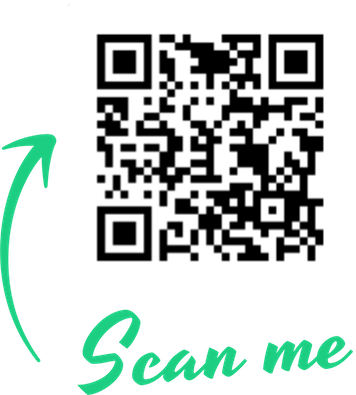
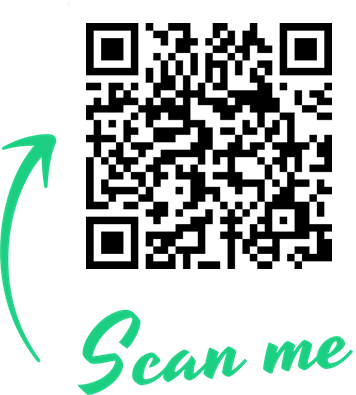
update product links and qrCode.

Changed region(s): [[0.2163, 0.0608, 0.9579, 0.6987]]

diff --git a/products/bananas/index.html b/products/bananas/index.html
@@ -7,7 +7,7 @@
   <meta name="viewport" content="width=device-width, initial-scale=1">
   <meta name="description" content="A banana is an elongated, tasty fruit – botanically a berry – produced by several kinds of large herbaceous flowering plants.">
   <meta name="author" content="AppsFlyer">
-  <meta name="generator" content="Gotham 0.10.0-dev" />
+  <meta name="generator" content="Gotham 0.13.0" />
 
   <!-- Plugins -->
   
@@ -26,7 +26,7 @@
   <link rel="shortcut icon" href="https://chayev.github.io/appsflyer-smartbanner-fruits/images/favicon.png " type="image/x-icon">
   <link rel="icon" href="https://chayev.github.io/appsflyer-smartbanner-fruits/images/favicon.png " type="image/x-icon">
   <script>
-    !function(t,e,n,s,a,c,i,o,p){t.AppsFlyerSdkObject=a,t.AF=t.AF||function(){(t.AF.q=t.AF.q||[]).push([Date.now()].concat(Array.prototype.slice.call(arguments)))},t.AF.id=t.AF.id||i,t.AF.plugins={},o=e.createElement(n),p=e.getElementsByTagName(n)[0],o.async=1,o.src="https://websdk.appsflyer.com?"+(c.length>0?"st="+c.split(",").sort().join(",")+"&":"")+(i.length>0?"af_id="+i:""),p.parentNode.insertBefore(o,p)}(window,document,"script",0,"AF","banners",{banners: {key: "d12425a4-aae5-4704-ba56-f7caad37172a"}})
+    !function(t,e,n,s,a,c,i,o,p){t.AppsFlyerSdkObject=a,t.AF=t.AF||function(){(t.AF.q=t.AF.q||[]).push([Date.now()].concat(Array.prototype.slice.call(arguments)))},t.AF.id=t.AF.id||i,t.AF.plugins={},o=e.createElement(n),p=e.getElementsByTagName(n)[0],o.async=1,o.src="https://websdk.appsflyer.com?"+(c.length>0?"st="+c.split(",").sort().join(",")+"&":"")+(i.length>0?"af_id="+i:""),p.parentNode.insertBefore(o,p)}(window,document,"script",0,"AF","banners",{banners: {key: "badb4d36-a89b-4ca9-a2bd-b489cf8972e5"}})
     AF('banners', 'showBanner')
   </script>
   <script>
@@ -93,7 +93,7 @@
       <div class="col-lg-5 mb-4 mb-lg-0">
         
           <button class="btn btn-primary btn-block"
-            onclick="location.href='https:\/\/appsflyer.onelink.me\/pGHC?pid=HalseyDemo\u0026c=bananas\u0026af_sub1=bananas'" type="button">
+            onclick="location.href='https:\/\/onelink-basic-app.onelink.me\/H5hv\/3fc2409f'" type="button">
             View in App
           </button>
         

diff --git a/products/peaches/index.html b/products/peaches/index.html
@@ -7,7 +7,7 @@
   <meta name="viewport" content="width=device-width, initial-scale=1">
   <meta name="description" content="A peach is a soft, juicy and fleshy stone fruit produced by a peach tree. It is grown throughout the warmer temperate regions.">
   <meta name="author" content="AppsFlyer">
-  <meta name="generator" content="Gotham 0.10.0-dev" />
+  <meta name="generator" content="Gotham 0.13.0" />
 
   <!-- Plugins -->
   
@@ -26,7 +26,7 @@
   <link rel="shortcut icon" href="https://chayev.github.io/appsflyer-smartbanner-fruits/images/favicon.png " type="image/x-icon">
   <link rel="icon" href="https://chayev.github.io/appsflyer-smartbanner-fruits/images/favicon.png " type="image/x-icon">
   <script>
-    !function(t,e,n,s,a,c,i,o,p){t.AppsFlyerSdkObject=a,t.AF=t.AF||function(){(t.AF.q=t.AF.q||[]).push([Date.now()].concat(Array.prototype.slice.call(arguments)))},t.AF.id=t.AF.id||i,t.AF.plugins={},o=e.createElement(n),p=e.getElementsByTagName(n)[0],o.async=1,o.src="https://websdk.appsflyer.com?"+(c.length>0?"st="+c.split(",").sort().join(",")+"&":"")+(i.length>0?"af_id="+i:""),p.parentNode.insertBefore(o,p)}(window,document,"script",0,"AF","banners",{banners: {key: "d12425a4-aae5-4704-ba56-f7caad37172a"}})
+    !function(t,e,n,s,a,c,i,o,p){t.AppsFlyerSdkObject=a,t.AF=t.AF||function(){(t.AF.q=t.AF.q||[]).push([Date.now()].concat(Array.prototype.slice.call(arguments)))},t.AF.id=t.AF.id||i,t.AF.plugins={},o=e.createElement(n),p=e.getElementsByTagName(n)[0],o.async=1,o.src="https://websdk.appsflyer.com?"+(c.length>0?"st="+c.split(",").sort().join(",")+"&":"")+(i.length>0?"af_id="+i:""),p.parentNode.insertBefore(o,p)}(window,document,"script",0,"AF","banners",{banners: {key: "badb4d36-a89b-4ca9-a2bd-b489cf8972e5"}})
     AF('banners', 'showBanner')
   </script>
   <script>
@@ -93,7 +93,7 @@
       <div class="col-lg-5 mb-4 mb-lg-0">
         
           <button class="btn btn-primary btn-block"
-            onclick="location.href='https:\/\/appsflyer.onelink.me\/pGHC?pid=HalseyDemo\u0026c=peaches\u0026af_sub1=peaches'" type="button">
+            onclick="location.href='https:\/\/onelink-basic-app.onelink.me\/H5hv\/3c1f0e30'" type="button">
             View in App
           </button>
         

diff --git a/products/apples/index.html b/products/apples/index.html
@@ -7,7 +7,7 @@
   <meta name="viewport" content="width=device-width, initial-scale=1">
   <meta name="description" content="The apple is a pome (fleshy) fruit, in which the ripened ovary and surrounding tissue both become fleshy and edible.">
   <meta name="author" content="AppsFlyer">
-  <meta name="generator" content="Gotham 0.10.0-dev" />
+  <meta name="generator" content="Gotham 0.13.0" />
 
   <!-- Plugins -->
   
@@ -26,7 +26,7 @@
   <link rel="shortcut icon" href="https://chayev.github.io/appsflyer-smartbanner-fruits/images/favicon.png " type="image/x-icon">
   <link rel="icon" href="https://chayev.github.io/appsflyer-smartbanner-fruits/images/favicon.png " type="image/x-icon">
   <script>
-    !function(t,e,n,s,a,c,i,o,p){t.AppsFlyerSdkObject=a,t.AF=t.AF||function(){(t.AF.q=t.AF.q||[]).push([Date.now()].concat(Array.prototype.slice.call(arguments)))},t.AF.id=t.AF.id||i,t.AF.plugins={},o=e.createElement(n),p=e.getElementsByTagName(n)[0],o.async=1,o.src="https://websdk.appsflyer.com?"+(c.length>0?"st="+c.split(",").sort().join(",")+"&":"")+(i.length>0?"af_id="+i:""),p.parentNode.insertBefore(o,p)}(window,document,"script",0,"AF","banners",{banners: {key: "d12425a4-aae5-4704-ba56-f7caad37172a"}})
+    !function(t,e,n,s,a,c,i,o,p){t.AppsFlyerSdkObject=a,t.AF=t.AF||function(){(t.AF.q=t.AF.q||[]).push([Date.now()].concat(Array.prototype.slice.call(arguments)))},t.AF.id=t.AF.id||i,t.AF.plugins={},o=e.createElement(n),p=e.getElementsByTagName(n)[0],o.async=1,o.src="https://websdk.appsflyer.com?"+(c.length>0?"st="+c.split(",").sort().join(",")+"&":"")+(i.length>0?"af_id="+i:""),p.parentNode.insertBefore(o,p)}(window,document,"script",0,"AF","banners",{banners: {key: "badb4d36-a89b-4ca9-a2bd-b489cf8972e5"}})
     AF('banners', 'showBanner')
   </script>
   <script>
@@ -93,7 +93,7 @@
       <div class="col-lg-5 mb-4 mb-lg-0">
         
           <button class="btn btn-primary btn-block"
-            onclick="location.href='https:\/\/appsflyer.onelink.me\/pGHC?pid=HalseyDemo\u0026c=apples\u0026af_sub1=apples'" type="button">
+            onclick="location.href='https:\/\/onelink-basic-app.onelink.me\/H5hv\/2358e13f'" type="button">
             View in App
           </button>
         

diff --git a/categories/index.html b/categories/index.html
@@ -7,7 +7,7 @@
   <meta name="viewport" content="width=device-width, initial-scale=1">
   <meta name="description" content="This is a demo page for AppsFlyer offerings.">
   <meta name="author" content="AppsFlyer">
-  <meta name="generator" content="Gotham 0.10.0-dev" />
+  <meta name="generator" content="Gotham 0.13.0" />
 
   <!-- Plugins -->
   
@@ -26,7 +26,7 @@
   <link rel="shortcut icon" href="https://chayev.github.io/appsflyer-smartbanner-fruits/images/favicon.png " type="image/x-icon">
   <link rel="icon" href="https://chayev.github.io/appsflyer-smartbanner-fruits/images/favicon.png " type="image/x-icon">
   <script>
-    !function(t,e,n,s,a,c,i,o,p){t.AppsFlyerSdkObject=a,t.AF=t.AF||function(){(t.AF.q=t.AF.q||[]).push([Date.now()].concat(Array.prototype.slice.call(arguments)))},t.AF.id=t.AF.id||i,t.AF.plugins={},o=e.createElement(n),p=e.getElementsByTagName(n)[0],o.async=1,o.src="https://websdk.appsflyer.com?"+(c.length>0?"st="+c.split(",").sort().join(",")+"&":"")+(i.length>0?"af_id="+i:""),p.parentNode.insertBefore(o,p)}(window,document,"script",0,"AF","banners",{banners: {key: "d12425a4-aae5-4704-ba56-f7caad37172a"}})
+    !function(t,e,n,s,a,c,i,o,p){t.AppsFlyerSdkObject=a,t.AF=t.AF||function(){(t.AF.q=t.AF.q||[]).push([Date.now()].concat(Array.prototype.slice.call(arguments)))},t.AF.id=t.AF.id||i,t.AF.plugins={},o=e.createElement(n),p=e.getElementsByTagName(n)[0],o.async=1,o.src="https://websdk.appsflyer.com?"+(c.length>0?"st="+c.split(",").sort().join(",")+"&":"")+(i.length>0?"af_id="+i:""),p.parentNode.insertBefore(o,p)}(window,document,"script",0,"AF","banners",{banners: {key: "badb4d36-a89b-4ca9-a2bd-b489cf8972e5"}})
     AF('banners', 'showBanner')
   </script>
   <script>

diff --git a/index.html b/index.html
@@ -7,7 +7,7 @@
   <meta name="viewport" content="width=device-width, initial-scale=1">
   <meta name="description" content="This is a demo page for AppsFlyer offerings.">
   <meta name="author" content="AppsFlyer">
-  <meta name="generator" content="Gotham 0.10.0-dev" />
+  <meta name="generator" content="Gotham 0.13.0" />
 
   <!-- Plugins -->
   
@@ -26,7 +26,7 @@
   <link rel="shortcut icon" href="https://chayev.github.io/appsflyer-smartbanner-fruits/images/favicon.png " type="image/x-icon">
   <link rel="icon" href="https://chayev.github.io/appsflyer-smartbanner-fruits/images/favicon.png " type="image/x-icon">
   <script>
-    !function(t,e,n,s,a,c,i,o,p){t.AppsFlyerSdkObject=a,t.AF=t.AF||function(){(t.AF.q=t.AF.q||[]).push([Date.now()].concat(Array.prototype.slice.call(arguments)))},t.AF.id=t.AF.id||i,t.AF.plugins={},o=e.createElement(n),p=e.getElementsByTagName(n)[0],o.async=1,o.src="https://websdk.appsflyer.com?"+(c.length>0?"st="+c.split(",").sort().join(",")+"&":"")+(i.length>0?"af_id="+i:""),p.parentNode.insertBefore(o,p)}(window,document,"script",0,"AF","banners",{banners: {key: "d12425a4-aae5-4704-ba56-f7caad37172a"}})
+    !function(t,e,n,s,a,c,i,o,p){t.AppsFlyerSdkObject=a,t.AF=t.AF||function(){(t.AF.q=t.AF.q||[]).push([Date.now()].concat(Array.prototype.slice.call(arguments)))},t.AF.id=t.AF.id||i,t.AF.plugins={},o=e.createElement(n),p=e.getElementsByTagName(n)[0],o.async=1,o.src="https://websdk.appsflyer.com?"+(c.length>0?"st="+c.split(",").sort().join(",")+"&":"")+(i.length>0?"af_id="+i:""),p.parentNode.insertBefore(o,p)}(window,document,"script",0,"AF","banners",{banners: {key: "badb4d36-a89b-4ca9-a2bd-b489cf8972e5"}})
     AF('banners', 'showBanner')
   </script>
   <script>

diff --git a/tags/index.html b/tags/index.html
@@ -7,7 +7,7 @@
   <meta name="viewport" content="width=device-width, initial-scale=1">
   <meta name="description" content="This is a demo page for AppsFlyer offerings.">
   <meta name="author" content="AppsFlyer">
-  <meta name="generator" content="Gotham 0.10.0-dev" />
+  <meta name="generator" content="Gotham 0.13.0" />
 
   <!-- Plugins -->
   
@@ -26,7 +26,7 @@
   <link rel="shortcut icon" href="https://chayev.github.io/appsflyer-smartbanner-fruits/images/favicon.png " type="image/x-icon">
   <link rel="icon" href="https://chayev.github.io/appsflyer-smartbanner-fruits/images/favicon.png " type="image/x-icon">
   <script>
-    !function(t,e,n,s,a,c,i,o,p){t.AppsFlyerSdkObject=a,t.AF=t.AF||function(){(t.AF.q=t.AF.q||[]).push([Date.now()].concat(Array.prototype.slice.call(arguments)))},t.AF.id=t.AF.id||i,t.AF.plugins={},o=e.createElement(n),p=e.getElementsByTagName(n)[0],o.async=1,o.src="https://websdk.appsflyer.com?"+(c.length>0?"st="+c.split(",").sort().join(",")+"&":"")+(i.length>0?"af_id="+i:""),p.parentNode.insertBefore(o,p)}(window,document,"script",0,"AF","banners",{banners: {key: "d12425a4-aae5-4704-ba56-f7caad37172a"}})
+    !function(t,e,n,s,a,c,i,o,p){t.AppsFlyerSdkObject=a,t.AF=t.AF||function(){(t.AF.q=t.AF.q||[]).push([Date.now()].concat(Array.prototype.slice.call(arguments)))},t.AF.id=t.AF.id||i,t.AF.plugins={},o=e.createElement(n),p=e.getElementsByTagName(n)[0],o.async=1,o.src="https://websdk.appsflyer.com?"+(c.length>0?"st="+c.split(",").sort().join(",")+"&":"")+(i.length>0?"af_id="+i:""),p.parentNode.insertBefore(o,p)}(window,document,"script",0,"AF","banners",{banners: {key: "badb4d36-a89b-4ca9-a2bd-b489cf8972e5"}})
     AF('banners', 'showBanner')
   </script>
   <script>

diff --git a/blog/index.html b/blog/index.html
@@ -7,7 +7,7 @@
   <meta name="viewport" content="width=device-width, initial-scale=1">
   <meta name="description" content="this is a meta description">
   <meta name="author" content="AppsFlyer">
-  <meta name="generator" content="Gotham 0.10.0-dev" />
+  <meta name="generator" content="Gotham 0.13.0" />
 
   <!-- Plugins -->
   
@@ -26,7 +26,7 @@
   <link rel="shortcut icon" href="https://chayev.github.io/appsflyer-smartbanner-fruits/images/favicon.png " type="image/x-icon">
   <link rel="icon" href="https://chayev.github.io/appsflyer-smartbanner-fruits/images/favicon.png " type="image/x-icon">
   <script>
-    !function(t,e,n,s,a,c,i,o,p){t.AppsFlyerSdkObject=a,t.AF=t.AF||function(){(t.AF.q=t.AF.q||[]).push([Date.now()].concat(Array.prototype.slice.call(arguments)))},t.AF.id=t.AF.id||i,t.AF.plugins={},o=e.createElement(n),p=e.getElementsByTagName(n)[0],o.async=1,o.src="https://websdk.appsflyer.com?"+(c.length>0?"st="+c.split(",").sort().join(",")+"&":"")+(i.length>0?"af_id="+i:""),p.parentNode.insertBefore(o,p)}(window,document,"script",0,"AF","banners",{banners: {key: "d12425a4-aae5-4704-ba56-f7caad37172a"}})
+    !function(t,e,n,s,a,c,i,o,p){t.AppsFlyerSdkObject=a,t.AF=t.AF||function(){(t.AF.q=t.AF.q||[]).push([Date.now()].concat(Array.prototype.slice.call(arguments)))},t.AF.id=t.AF.id||i,t.AF.plugins={},o=e.createElement(n),p=e.getElementsByTagName(n)[0],o.async=1,o.src="https://websdk.appsflyer.com?"+(c.length>0?"st="+c.split(",").sort().join(",")+"&":"")+(i.length>0?"af_id="+i:""),p.parentNode.insertBefore(o,p)}(window,document,"script",0,"AF","banners",{banners: {key: "badb4d36-a89b-4ca9-a2bd-b489cf8972e5"}})
     AF('banners', 'showBanner')
   </script>
   <script>

diff --git a/blog/post-1/index.html b/blog/post-1/index.html
@@ -7,7 +7,7 @@
   <meta name="viewport" content="width=device-width, initial-scale=1">
   <meta name="description" content="this is a meta description">
   <meta name="author" content="AppsFlyer">
-  <meta name="generator" content="Gotham 0.10.0-dev" />
+  <meta name="generator" content="Gotham 0.13.0" />
 
   <!-- Plugins -->
   
@@ -26,7 +26,7 @@
   <link rel="shortcut icon" href="https://chayev.github.io/appsflyer-smartbanner-fruits/images/favicon.png " type="image/x-icon">
   <link rel="icon" href="https://chayev.github.io/appsflyer-smartbanner-fruits/images/favicon.png " type="image/x-icon">
   <script>
-    !function(t,e,n,s,a,c,i,o,p){t.AppsFlyerSdkObject=a,t.AF=t.AF||function(){(t.AF.q=t.AF.q||[]).push([Date.now()].concat(Array.prototype.slice.call(arguments)))},t.AF.id=t.AF.id||i,t.AF.plugins={},o=e.createElement(n),p=e.getElementsByTagName(n)[0],o.async=1,o.src="https://websdk.appsflyer.com?"+(c.length>0?"st="+c.split(",").sort().join(",")+"&":"")+(i.length>0?"af_id="+i:""),p.parentNode.insertBefore(o,p)}(window,document,"script",0,"AF","banners",{banners: {key: "d12425a4-aae5-4704-ba56-f7caad37172a"}})
+    !function(t,e,n,s,a,c,i,o,p){t.AppsFlyerSdkObject=a,t.AF=t.AF||function(){(t.AF.q=t.AF.q||[]).push([Date.now()].concat(Array.prototype.slice.call(arguments)))},t.AF.id=t.AF.id||i,t.AF.plugins={},o=e.createElement(n),p=e.getElementsByTagName(n)[0],o.async=1,o.src="https://websdk.appsflyer.com?"+(c.length>0?"st="+c.split(",").sort().join(",")+"&":"")+(i.length>0?"af_id="+i:""),p.parentNode.insertBefore(o,p)}(window,document,"script",0,"AF","banners",{banners: {key: "badb4d36-a89b-4ca9-a2bd-b489cf8972e5"}})
     AF('banners', 'showBanner')
   </script>
   <script>

diff --git a/blog/post-2/index.html b/blog/post-2/index.html
@@ -7,7 +7,7 @@
   <meta name="viewport" content="width=device-width, initial-scale=1">
   <meta name="description" content="this is a meta description">
   <meta name="author" content="AppsFlyer">
-  <meta name="generator" content="Gotham 0.10.0-dev" />
+  <meta name="generator" content="Gotham 0.13.0" />
 
   <!-- Plugins -->
   
@@ -26,7 +26,7 @@
   <link rel="shortcut icon" href="https://chayev.github.io/appsflyer-smartbanner-fruits/images/favicon.png " type="image/x-icon">
   <link rel="icon" href="https://chayev.github.io/appsflyer-smartbanner-fruits/images/favicon.png " type="image/x-icon">
   <script>
-    !function(t,e,n,s,a,c,i,o,p){t.AppsFlyerSdkObject=a,t.AF=t.AF||function(){(t.AF.q=t.AF.q||[]).push([Date.now()].concat(Array.prototype.slice.call(arguments)))},t.AF.id=t.AF.id||i,t.AF.plugins={},o=e.createElement(n),p=e.getElementsByTagName(n)[0],o.async=1,o.src="https://websdk.appsflyer.com?"+(c.length>0?"st="+c.split(",").sort().join(",")+"&":"")+(i.length>0?"af_id="+i:""),p.parentNode.insertBefore(o,p)}(window,document,"script",0,"AF","banners",{banners: {key: "d12425a4-aae5-4704-ba56-f7caad37172a"}})
+    !function(t,e,n,s,a,c,i,o,p){t.AppsFlyerSdkObject=a,t.AF=t.AF||function(){(t.AF.q=t.AF.q||[]).push([Date.now()].concat(Array.prototype.slice.call(arguments)))},t.AF.id=t.AF.id||i,t.AF.plugins={},o=e.createElement(n),p=e.getElementsByTagName(n)[0],o.async=1,o.src="https://websdk.appsflyer.com?"+(c.length>0?"st="+c.split(",").sort().join(",")+"&":"")+(i.length>0?"af_id="+i:""),p.parentNode.insertBefore(o,p)}(window,document,"script",0,"AF","banners",{banners: {key: "badb4d36-a89b-4ca9-a2bd-b489cf8972e5"}})
     AF('banners', 'showBanner')
   </script>
   <script>

diff --git a/contact/index.html b/contact/index.html
@@ -7,7 +7,7 @@
   <meta name="viewport" content="width=device-width, initial-scale=1">
   <meta name="description" content="this is a meta description">
   <meta name="author" content="AppsFlyer">
-  <meta name="generator" content="Gotham 0.10.0-dev" />
+  <meta name="generator" content="Gotham 0.13.0" />
 
   <!-- Plugins -->
   
@@ -26,7 +26,7 @@
   <link rel="shortcut icon" href="https://chayev.github.io/appsflyer-smartbanner-fruits/images/favicon.png " type="image/x-icon">
   <link rel="icon" href="https://chayev.github.io/appsflyer-smartbanner-fruits/images/favicon.png " type="image/x-icon">
   <script>
-    !function(t,e,n,s,a,c,i,o,p){t.AppsFlyerSdkObject=a,t.AF=t.AF||function(){(t.AF.q=t.AF.q||[]).push([Date.now()].concat(Array.prototype.slice.call(arguments)))},t.AF.id=t.AF.id||i,t.AF.plugins={},o=e.createElement(n),p=e.getElementsByTagName(n)[0],o.async=1,o.src="https://websdk.appsflyer.com?"+(c.length>0?"st="+c.split(",").sort().join(",")+"&":"")+(i.length>0?"af_id="+i:""),p.parentNode.insertBefore(o,p)}(window,document,"script",0,"AF","banners",{banners: {key: "d12425a4-aae5-4704-ba56-f7caad37172a"}})
+    !function(t,e,n,s,a,c,i,o,p){t.AppsFlyerSdkObject=a,t.AF=t.AF||function(){(t.AF.q=t.AF.q||[]).push([Date.now()].concat(Array.prototype.slice.call(arguments)))},t.AF.id=t.AF.id||i,t.AF.plugins={},o=e.createElement(n),p=e.getElementsByTagName(n)[0],o.async=1,o.src="https://websdk.appsflyer.com?"+(c.length>0?"st="+c.split(",").sort().join(",")+"&":"")+(i.length>0?"af_id="+i:""),p.parentNode.insertBefore(o,p)}(window,document,"script",0,"AF","banners",{banners: {key: "badb4d36-a89b-4ca9-a2bd-b489cf8972e5"}})
     AF('banners', 'showBanner')
   </script>
   <script>

diff --git a/faq/index.html b/faq/index.html
@@ -7,7 +7,7 @@
   <meta name="viewport" content="width=device-width, initial-scale=1">
   <meta name="description" content="this is a meta description">
   <meta name="author" content="AppsFlyer">
-  <meta name="generator" content="Gotham 0.10.0-dev" />
+  <meta name="generator" content="Gotham 0.13.0" />
 
   <!-- Plugins -->
   
@@ -26,7 +26,7 @@
   <link rel="shortcut icon" href="https://chayev.github.io/appsflyer-smartbanner-fruits/images/favicon.png " type="image/x-icon">
   <link rel="icon" href="https://chayev.github.io/appsflyer-smartbanner-fruits/images/favicon.png " type="image/x-icon">
   <script>
-    !function(t,e,n,s,a,c,i,o,p){t.AppsFlyerSdkObject=a,t.AF=t.AF||function(){(t.AF.q=t.AF.q||[]).push([Date.now()].concat(Array.prototype.slice.call(arguments)))},t.AF.id=t.AF.id||i,t.AF.plugins={},o=e.createElement(n),p=e.getElementsByTagName(n)[0],o.async=1,o.src="https://websdk.appsflyer.com?"+(c.length>0?"st="+c.split(",").sort().join(",")+"&":"")+(i.length>0?"af_id="+i:""),p.parentNode.insertBefore(o,p)}(window,document,"script",0,"AF","banners",{banners: {key: "d12425a4-aae5-4704-ba56-f7caad37172a"}})
+    !function(t,e,n,s,a,c,i,o,p){t.AppsFlyerSdkObject=a,t.AF=t.AF||function(){(t.AF.q=t.AF.q||[]).push([Date.now()].concat(Array.prototype.slice.call(arguments)))},t.AF.id=t.AF.id||i,t.AF.plugins={},o=e.createElement(n),p=e.getElementsByTagName(n)[0],o.async=1,o.src="https://websdk.appsflyer.com?"+(c.length>0?"st="+c.split(",").sort().join(",")+"&":"")+(i.length>0?"af_id="+i:""),p.parentNode.insertBefore(o,p)}(window,document,"script",0,"AF","banners",{banners: {key: "badb4d36-a89b-4ca9-a2bd-b489cf8972e5"}})
     AF('banners', 'showBanner')
   </script>
   <script>

diff --git a/products/index.html b/products/index.html
@@ -7,7 +7,7 @@
   <meta name="viewport" content="width=device-width, initial-scale=1">
   <meta name="description" content="this is a meta description">
   <meta name="author" content="AppsFlyer">
-  <meta name="generator" content="Gotham 0.10.0-dev" />
+  <meta name="generator" content="Gotham 0.13.0" />
 
   <!-- Plugins -->
   
@@ -26,7 +26,7 @@
   <link rel="shortcut icon" href="https://chayev.github.io/appsflyer-smartbanner-fruits/images/favicon.png " type="image/x-icon">
   <link rel="icon" href="https://chayev.github.io/appsflyer-smartbanner-fruits/images/favicon.png " type="image/x-icon">
   <script>
-    !function(t,e,n,s,a,c,i,o,p){t.AppsFlyerSdkObject=a,t.AF=t.AF||function(){(t.AF.q=t.AF.q||[]).push([Date.now()].concat(Array.prototype.slice.call(arguments)))},t.AF.id=t.AF.id||i,t.AF.plugins={},o=e.createElement(n),p=e.getElementsByTagName(n)[0],o.async=1,o.src="https://websdk.appsflyer.com?"+(c.length>0?"st="+c.split(",").sort().join(",")+"&":"")+(i.length>0?"af_id="+i:""),p.parentNode.insertBefore(o,p)}(window,document,"script",0,"AF","banners",{banners: {key: "d12425a4-aae5-4704-ba56-f7caad37172a"}})
+    !function(t,e,n,s,a,c,i,o,p){t.AppsFlyerSdkObject=a,t.AF=t.AF||function(){(t.AF.q=t.AF.q||[]).push([Date.now()].concat(Array.prototype.slice.call(arguments)))},t.AF.id=t.AF.id||i,t.AF.plugins={},o=e.createElement(n),p=e.getElementsByTagName(n)[0],o.async=1,o.src="https://websdk.appsflyer.com?"+(c.length>0?"st="+c.split(",").sort().join(",")+"&":"")+(i.length>0?"af_id="+i:""),p.parentNode.insertBefore(o,p)}(window,document,"script",0,"AF","banners",{banners: {key: "badb4d36-a89b-4ca9-a2bd-b489cf8972e5"}})
     AF('banners', 'showBanner')
   </script>
   <script>
